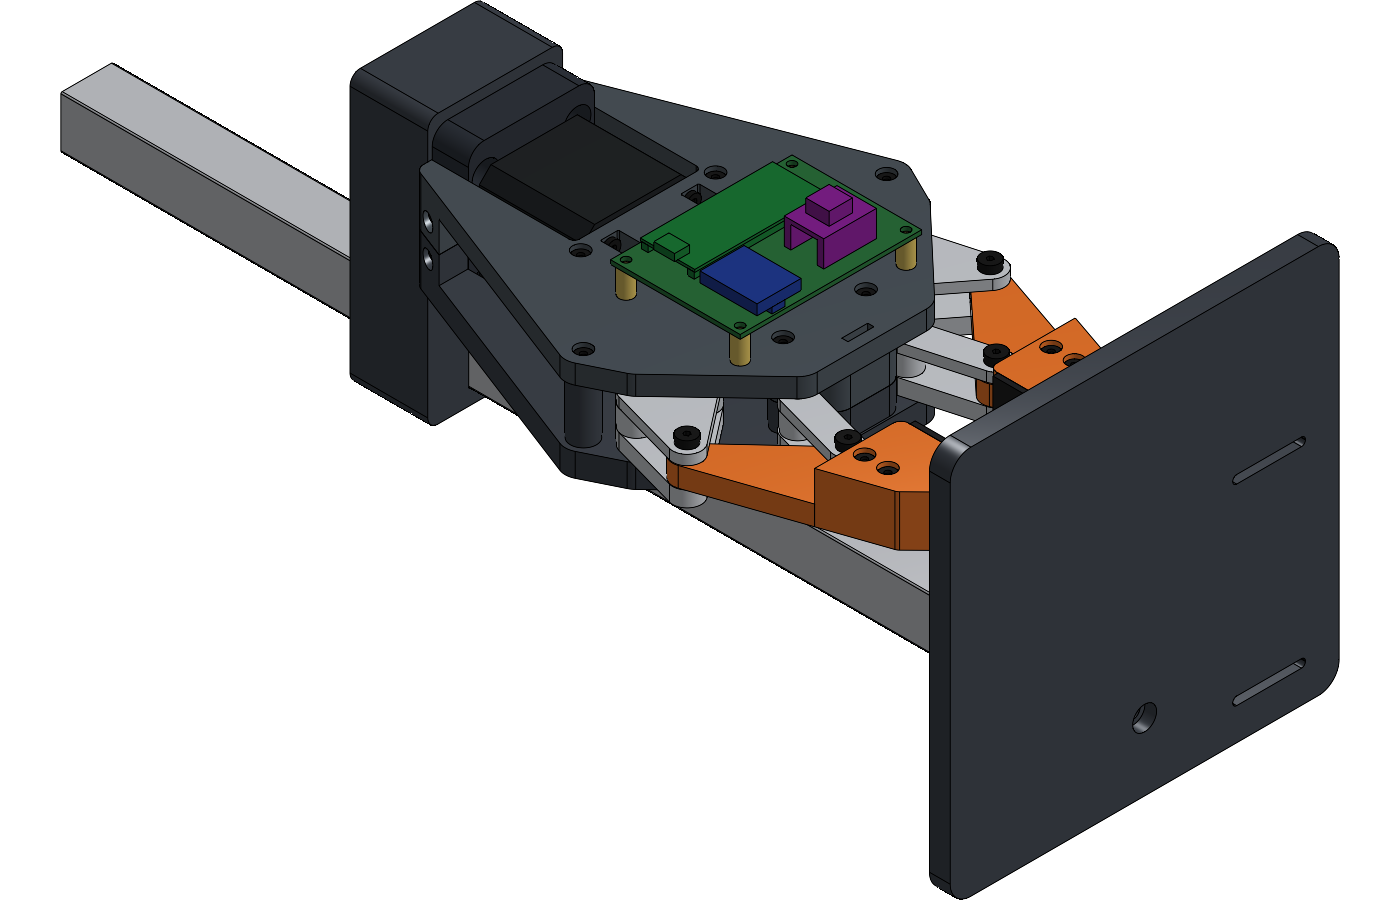
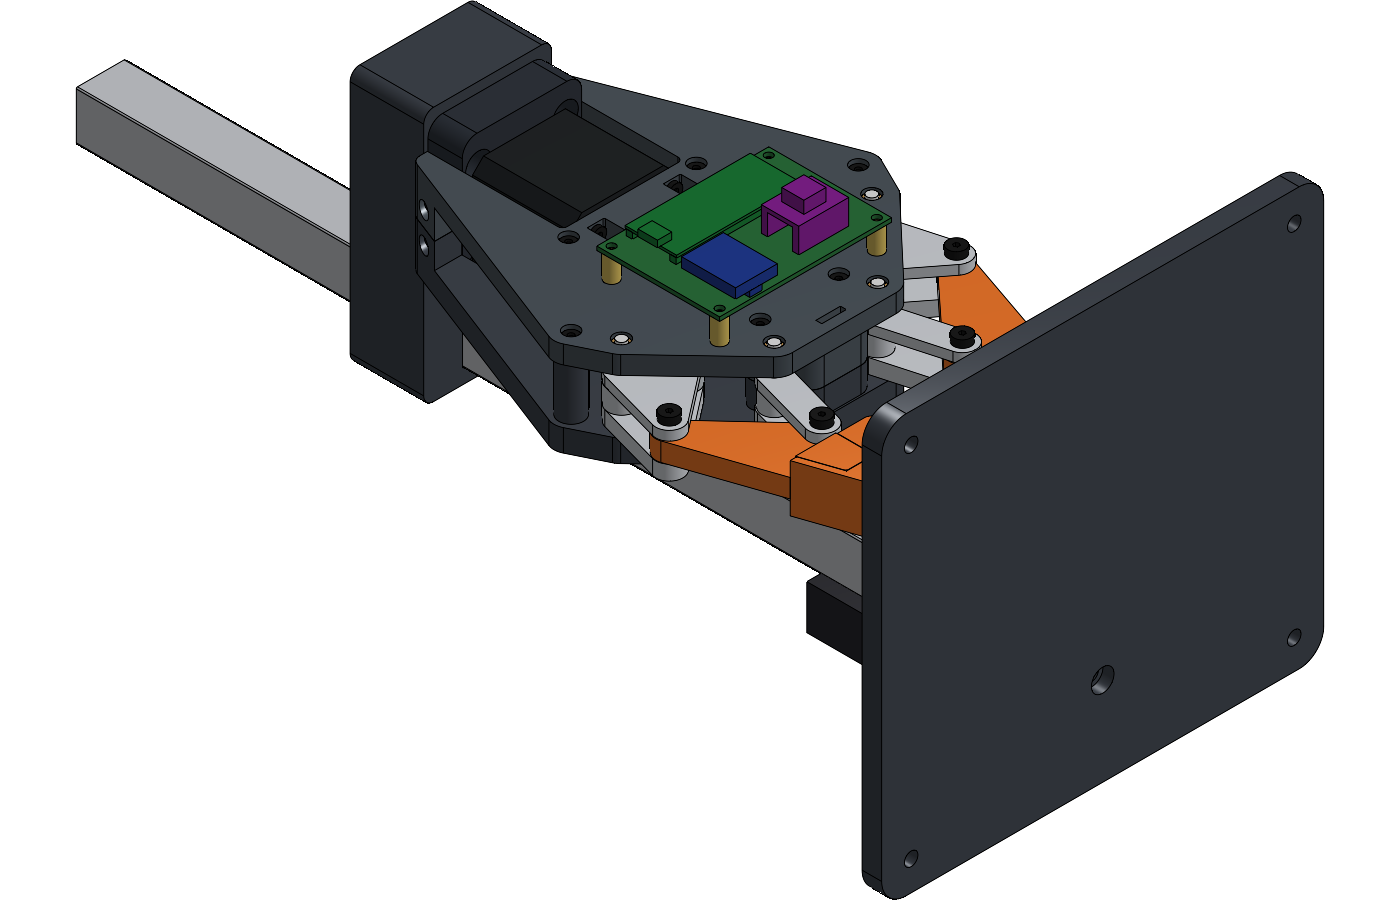
GripperV2 updated to rev 7.1 and verified; review status recorded
- Feature Studio rev 7.1 (SHA-256 f29064932af61cb0); Part Studio 78 parts
  within 1.22 mm3 of local; wide set matches; Assembly 1: 4 bronze sleeves
  and 2 block pins inserted into "Frame (fixed)", 21/21 features OK,
  motion verified at both limits, slider left at 0
- Onshape evCollision over all bodies: only the intended press fits
- fs_gen: the rev 7.1 specs now come after the stand specs (putting them
  before shifted the stand part ids and broke 4 instances; fixed)
- Onshape record, pictures, handoff resume point and the review status
  table (items 1-12) updated

diff --git a/gripper_fabrication_rev7/source/fs_gen.py b/gripper_fabrication_rev7/source/fs_gen.py
@@ -63,16 +63,16 @@ SPEC += [  # rev 7 (D): controller on the cover top
     ('Raspberry Pi Pico', D.pico(), 'ground', False, '[0.10,0.45,0.20]', 'FR4', True),
     ('TMC2209 driver', D.tmc2209(), 'ground', False, '[0.50,0.12,0.55]', 'FR4', True),
     ('Buck 5V MP1584', D.buck(), 'ground', False, '[0.12,0.22,0.55]', 'FR4', True)]
-SPEC += [  # rev 7.1 (review item 3): bronze sleeves bonded into the cover hold the dowel tops
-    ('Bushing 4x6x6 O1', D.sleeve(D.O1), 'ground', True, '[0.72,0.55,0.30]', 'BRASS', True),
-    ('Bushing 4x6x6 O2', D.sleeve(D.O2), 'ground', True, '[0.72,0.55,0.30]', 'BRASS', True),
-    ('Dowel 3x16 block', D.loc_pin(), 'ground', True, '[0.86,0.86,0.86]', 'STEEL', True)]   # review item 12
 STAND = [  # rev 7 (F): bench stand, built when the dialog's "Include bench stand" is on
     ('Stand head bracket', D.stand_bracket(), 'ground', False, '[0.24,0.26,0.29]', D.MAT, False),
     ('Stand base', D.stand_base(), 'ground', False, '[0.24,0.26,0.29]', D.MAT, False),
     ('Extrusion 2020 x 400', D.column(), 'ground', False, '[0.76,0.77,0.79]', 'ALU', True),
     ('LiPo 3S 650mAh', D.battery(), 'ground', False, '[0.16,0.16,0.18]', 'LIPO', True)]
 SPEC += STAND
+SPEC += [  # rev 7.1, appended after the stand so existing part ids stay put (review item 3): bronze sleeves bonded into the cover hold the dowel tops
+    ('Bushing 4x6x6 O1', D.sleeve(D.O1), 'ground', True, '[0.72,0.55,0.30]', 'BRASS', True),
+    ('Bushing 4x6x6 O2', D.sleeve(D.O2), 'ground', True, '[0.72,0.55,0.30]', 'BRASS', True),
+    ('Dowel 3x16 block', D.loc_pin(), 'ground', True, '[0.86,0.86,0.86]', 'STEEL', True)]   # review item 12
 WIDE = {'Tip block': D.tip_block(True), 'Pad TPU': D.pad(True)}   # ops used when the dialog's tip set is Wide
 consts = dict(L=D.L, R=D.r, LR=D.l, YC=D.YC, O1X=D.O1[0], O1Y=D.O1[1], O2X=D.O2[0], O2Y=D.O2[1],
               THC=np.degrees(D.TH_C), GAPMAX=D.GAP_MAX, RHO=D.MAT_RHO, WOFS=D.WIDE_OFS)

diff --git a/GRIPPER_HANDOFF.md b/GRIPPER_HANDOFF.md
@@ -221,7 +221,7 @@ Steps 1–8 are done and committed on `v2/handoff-decisions` (not pushed). Full 
 - **Checks:** 72 valid parts, 0 collisions over 41 poses for both tip sets (`check.py 41`; run `GRIPPER_TIPSET=wide python3 check.py 41` for the wide set, which writes `*_wide.json`). Only intended contacts under 0.8 mm.
 - **Structure (ABS 30 MPa, 200 N screw-force limit, far-tip grip at the 66 mm stop):** min SF 1.7 (finger bore and boss at F2, tip screws). At the 60 mm firmware cap these rows are 1.81× higher (≥ 3.0). Tongue alone carries the seam moment at SF 2.7. Fasteners min SF 2.3.
 - **Drive:** Tr8x8, driver 0.70 A RMS (stall 78–110 N), grip ≥ 26.8 N per jaw, 400 steps/mm, full stroke 0.4 s, not self-locking.
-- **Onshape `GripperV2`:** Feature Studio updated (SHA-256 `05ef67f130b2d4b1`), 72 parts within 1.3 mm³ of local, dialog has Tip set + Include bench stand. Assembly 1: 72 instances, 21/21 features OK, new groups "Finger U + tip" / "Finger L + tip", slider verified at both limits, left at 0. FeatureScript MCP requests used: 0.
+- **Onshape `GripperV2`:** Feature Studio updated (rev 7.1: SHA-256 `f29064932af61cb0`), 72 parts within 1.3 mm³ of local, dialog has Tip set + Include bench stand. Assembly 1: 72 instances, 21/21 features OK, new groups "Finger U + tip" / "Finger L + tip", slider verified at both limits, left at 0. FeatureScript MCP requests used: 0.
 
 **Calls made without asking (Anurag said not to stop for questions):**
 1. Tip joint: finger keeps a 20 mm tongue; tip block slides up onto it, 2× M3×16 from the top into inserts in the tongue. Pad: one TPU pad for both sets, 45° dovetail key sliding in from the rear.
@@ -232,7 +232,7 @@ Steps 1–8 are done and committed on `v2/handoff-decisions` (not pushed). Full 
 6. Driver current is computed in `structural.py` (lowest 0.05 A step that meets the 25 N grip target).
 7. Found and fixed: `prims.mirror_ops` mirrored `extx` profiles in z instead of y (first used by the pad dovetail).
 
-**Resume point (2026-10-24):** the independent senior-engineer design review is done: `docs/DESIGN_REVIEW_2026-10-24.md` (39 items; the critical one is the tip-block tongue joint). Next: Anurag picks which items to fix. Later fix (commit 71eec9e): the Pico, buck and TMC2209 now include their header strips, so they no longer float above the protoboard. Nothing is pushed; ask before pushing `v2/handoff-decisions`.
+**Resume point (2026-10-24, rev 7.1):** the design review (`docs/DESIGN_REVIEW_2026-10-24.md`) items 1–12 are done where they were design changes (status table at the top of that file); GripperV2 is updated and verified (78 parts, 21/21 features OK, evCollision clean). Waiting on Anurag for the inputs listed there. Rule learned: new SPEC entries go after **every** existing entry, the stand included, or Onshape part ids shift.
 
 **Still open (for Anurag):**
 - Print `13_FitTest_coupons.stl` in ABS at the fablab and report the fits; retune `R_RUN`, `R_SNUG`, the 608 seat etc. from the results.

diff --git a/docs/DESIGN_REVIEW_2026-10-24.md b/docs/DESIGN_REVIEW_2026-10-24.md
@@ -2,6 +2,24 @@
 
 An independent agent, briefed as a senior mechanical design engineer (brief: `docs/REVIEW_BRIEF.md`), reviewed the local files and the Onshape document read-only. Tags: **V** = verified with data, code or Onshape; **S** = suspected (judgement). Before relaying, the main session re-checked three items: the tongue section and stresses (1), the slider position (28) and the report wording (39). All three hold.
 
+## Status after the fixes (rev 7.1, same day)
+| Item | Status | Commit |
+|---|---|---|
+| 1 Tip joint | Fixed: tongue 16.3 × 13.6 mm root, rises to the block top; screws from below at mid-depth. Tongue root SF 1.6 at the limit, 5.3 in use (was 0.27 / 0.89) | e576355 |
+| 2 Out-of-plane load | Fixed for normal grips: block and pad centred on the pin plane. Checked a grip on the pad edge: tongue torsion SF 1.7 / 5.6; F2 bore twist SF 0.6 limit / 2.0 in use (bore-only model, conservative) | e576355 |
+| 3 Fixed pivots | Fixed: dowel tops in bronze sleeves bonded into the cover (zero clearance, no reamer); dowels 4×36. Base socket SF 2.6, cover 4.5 | a7d0215 |
+| 4 Pad retention | Fixed: snap barb on the key catches a step at the groove entrance (checked: blocked when pulled back) | 01b9647 |
+| 5 Dynamics / homing | Documented: hard-stop estimate, homing at 0.3 A and 10 mm/s with the encoder detecting the stop. **Needs input:** the motor's axial load rating and rotor inertia | 03488d6 |
+| 6 Driver current | Documented: VREF ceiling + i_scale_analog, EN pull-up, re-init after driver reset (BOM updated) | 03488d6 |
+| 7 Battery | Fixed: strapped to the column, ≥ 45 mm from every gripper part; fuse before the switch, divider after it, balance-lead alarm | b032bca |
+| 8 Stand stability | Fixed by anchoring: 180 × 170 base with 4 bench holes, 2 more M5 at the column foot. Unclamped it still tips at about 5 N. **Needs input:** can it be fixed to the bench? | b032bca |
+| 9 Grip schedule | Documented: run-current table against the gap for about 30 N per jaw | 03488d6 |
+| 10 Encoder in the 608 | **Needs a bench test** (procedure in the report section 4a) before printing the bearing block; redesign only if the field is too weak | 03488d6 |
+| 11 Fit coupons | Fixed: 13b (rev 7 fits, cut from the real parts) and 13c (TPU pad snap) | 7cf320d |
+| 12 Warping | Partly: 2 locating pins across the bearing-block split, flatness check in the print notes. **Needs input:** may the stand parts be printed in PLA/PETG? | 3058a98 |
+
+Items 13–39 are not addressed yet.
+
 ## Verdict
 The linkage, pivots, thrust path, collision sweep and the Onshape match are sound. The v2 additions are the weak spots:
 - **Tip joint:** undersized, and checked on the wrong section.

diff --git a/gripper_fabrication_rev7/DESIGN_REPORT.md b/gripper_fabrication_rev7/DESIGN_REPORT.md
@@ -210,11 +210,11 @@ Print settings: ABS in an enclosed printer (a draft shield at minimum), part-coo
 
 ## 7. Onshape
 
-**Status (rev 7, 2026-10-24):** the v2 design is in the Onshape document **GripperV2** (https://cad.onshape.com/documents/21eb00e5286d05130362fe39), a copy of the rev 6 document. The original "Lead Screw Gripper" document stays the rev 6 record.
+**Status (rev 7, 2026-10-24 (rev 7.1 after the design review)):** the v2 design is in the Onshape document **GripperV2** (https://cad.onshape.com/documents/21eb00e5286d05130362fe39), a copy of the rev 6 document. The original "Lead Screw Gripper" document stays the rev 6 record.
 
-- Feature Studio 1 holds the rev 7 `LeadScrewGripper.fs` (42104 characters, SHA-256 05ef67f130b2d4b1…, identical to the local file), written through the browser session (0 FeatureScript MCP requests).
-- The feature dialog now has **Tip set** (Narrow / Wide) and **Include bench stand**; it reports the pad-to-pad gap for the chosen set. Part Studio 1 builds 72 parts; every volume is within 1.3 mm³ of the local model, and the wide set matches too.
-- Assembly 1: 72 instances, 21/21 features OK. New rigid groups "Finger U + tip" and "Finger L + tip" (finger, tip block, pad, 2 tip screws); the encoder, controller and stand parts are in "Frame (fixed)". Slider at both limits: carriage +20.83 / −11.20 mm, fingers 18.00 / −15.00 mm, tips follow the fingers; past the limit it clamps. Left at 0 (gap 30). Record: source/results_onshape_rev7.json.
+- Feature Studio 1 holds the rev 7 `LeadScrewGripper.fs` (43366 characters, SHA-256 f29064932af61cb0…, identical to the local file), written through the browser session (0 FeatureScript MCP requests).
+- The feature dialog now has **Tip set** (Narrow / Wide) and **Include bench stand**; it reports the pad-to-pad gap for the chosen set. Part Studio 1 builds 78 parts; every volume is within 1.22 mm³ of the local model, and the wide set matches too.
+- Assembly 1: 78 instances, 21/21 features OK. New rigid groups "Finger U + tip" and "Finger L + tip" (finger, tip block, pad, 2 tip screws); the encoder, controller and stand parts are in "Frame (fixed)". Slider at both limits: carriage +20.83 / −11.20 mm, fingers 18.00 / −15.00 mm, tips follow the fingers; past the limit it clamps. Left at 0 (gap 30). Record: source/results_onshape_rev7.json.
 - Pictures: images/onshape_v2_assembly_iso.png, images/onshape_v2_assembly_top.png, images/onshape_v2_partstudio_iso.png. The "Robot export" assembly is unchanged (ROS 2 phase).
 
 **Rev 6 record (original document):**
